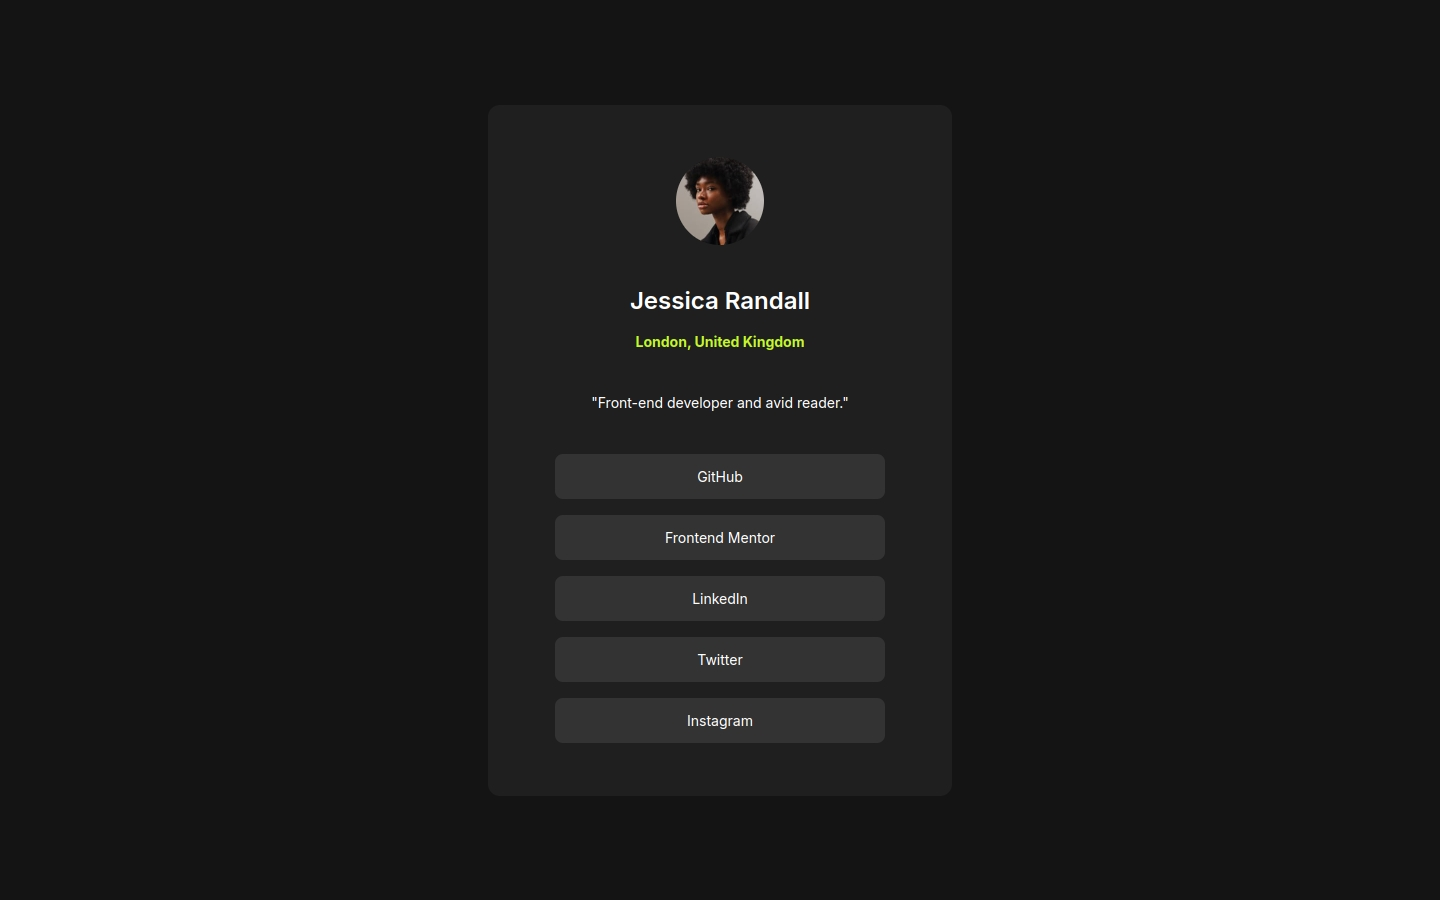
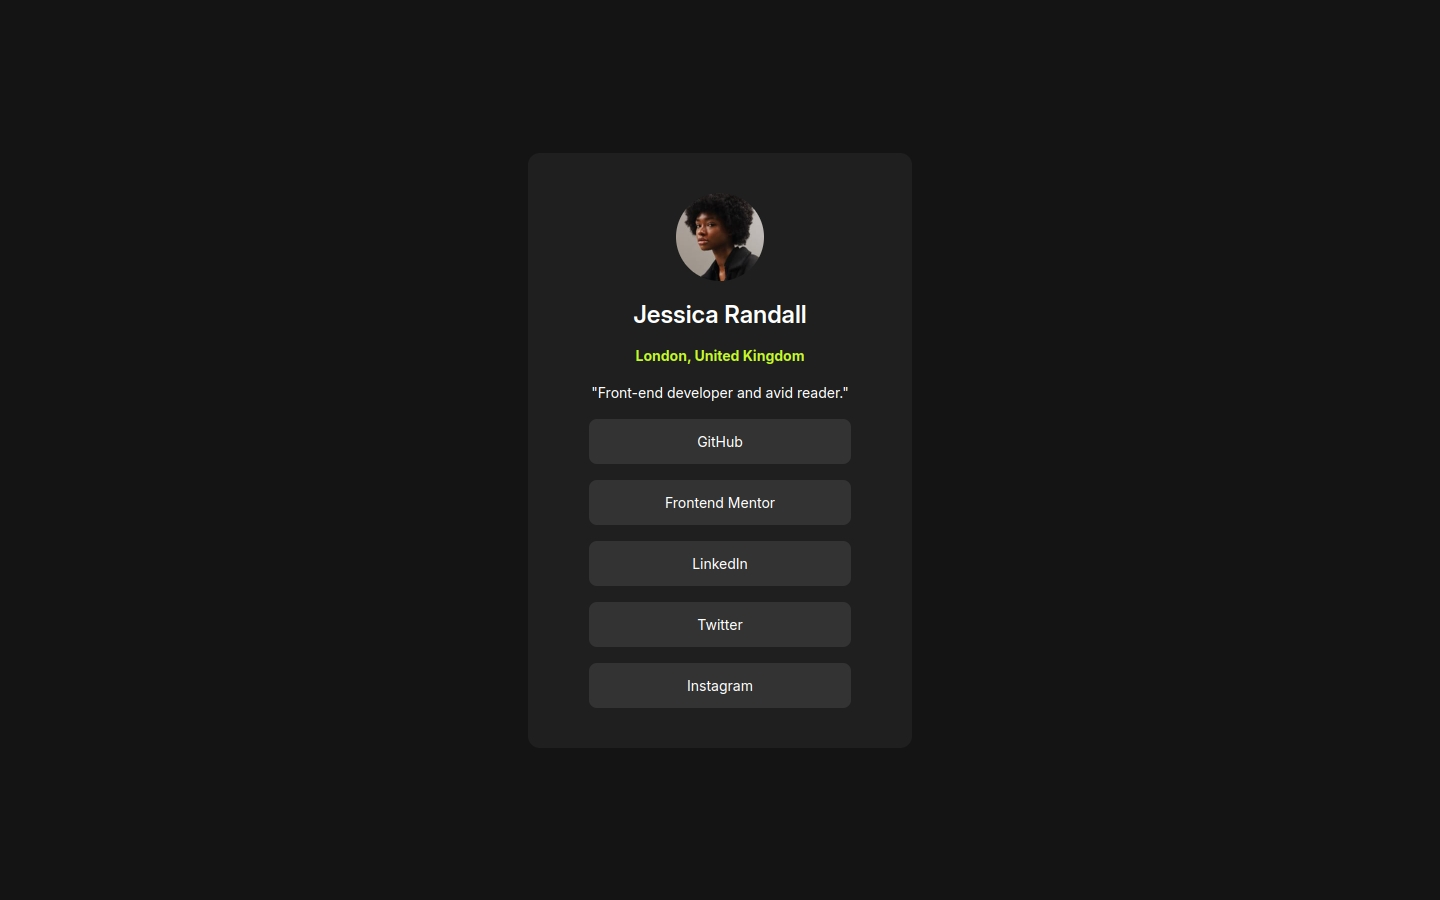
Fix box-sizing value

Changed region(s): [[0.4375, 0.1867, 0.5625, 0.4044], [0.4688, 0.5289, 0.5312, 0.8089], [0.4062, 0.4356, 0.5938, 0.4978]]

diff --git a/assets/css/styles.css b/assets/css/styles.css
@@ -1,6 +1,6 @@
 *{ margin:auto;
-   padding:auto;
-   box-sizing: border-boxa;}
+   padding:0;
+   box-sizing: border-box;}
 
 body{
     background-color: #141414;
@@ -25,7 +25,6 @@ main{
     align-items: center;
     gap:16px;
     max-width:384px;
-    height:611px;
     padding:40px;
     margin:auto;
   
@@ -34,6 +33,8 @@ main{
 @media screen and (max-width: 767px){
     main {
         width: 320px;
+        padding-left: 24px;
+        padding-right:16px;
     }
 }
 

diff --git a/index.html b/index.html
@@ -15,7 +15,9 @@
 </head>
 <body>
   <main>
+    <div class="image-container">
      <img src="./assets/images/avatar-jessica.jpeg" />
+     </div>
      <h1>Jessica Randall</h1>
      <h2>London, United Kingdom</h2>
      <p>"Front-end developer and avid reader."</p>
